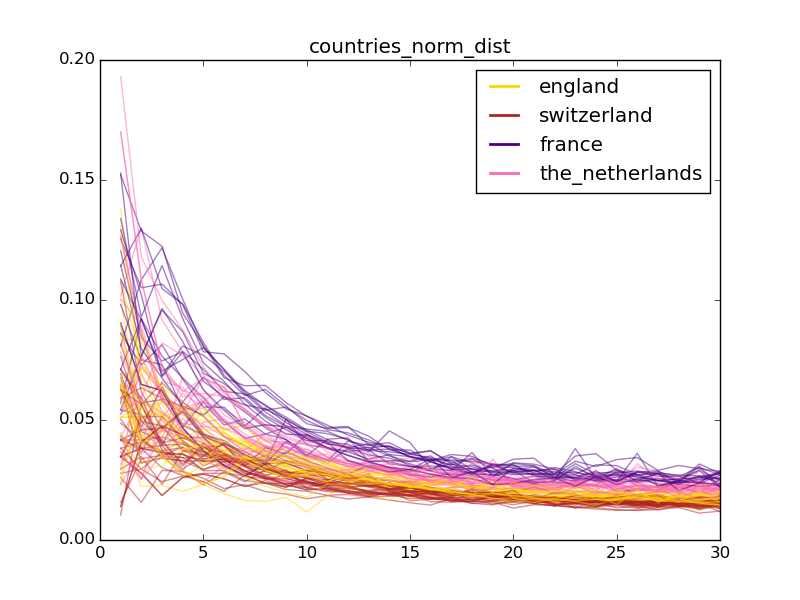
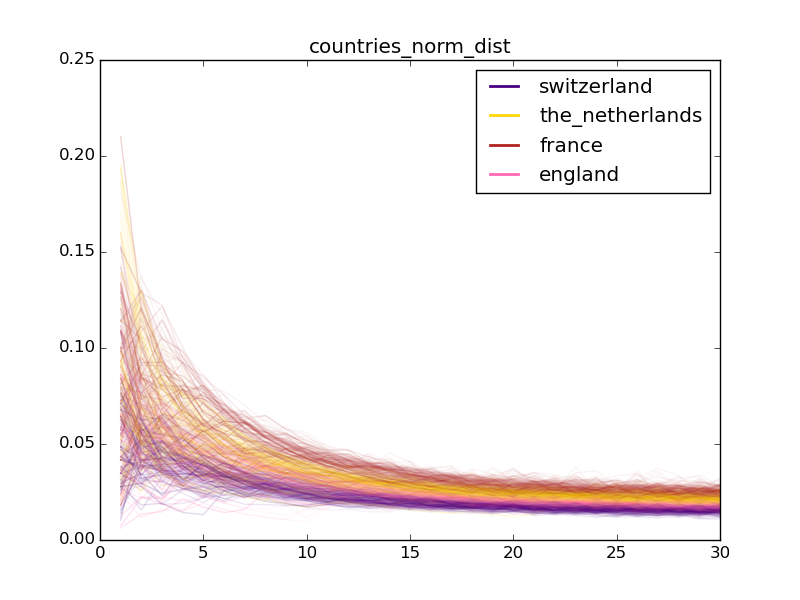
Changed some parameters to prettify plots

diff --git a/statistics.py b/statistics.py
@@ -66,13 +66,14 @@ def plot(dict_name, dataset, average=False):
     plt.title(dict_name)
     ax1 = fig.add_subplot(111)
     cs = colors.cnames.keys()
-    cdict = {"france": cs[0], "england": cs[1], "the_netherlands": cs[2], "switzerland": cs[3]}
+
+    cdict = {key: cs[i] for i, key in enumerate(dataset.keys())}
 
     # To avoid one series totally overwriting another
     data_array = [(key, dataset[key][i]) for key in dataset.keys() for i in range(len(dataset[key]))]
     shuffle(data_array)
 
-    for key, item in data_array[:100]:
+    for key, item in data_array:
 
         avg = np.average(np.array(item), axis=0)
 
@@ -83,7 +84,7 @@ def plot(dict_name, dataset, average=False):
         if random() < 0.00:
             ax1.plot(x, item, color=c, alpha=0.6, lw=1, label=key)
         else:
-            ax1.plot(x, item, color=c, alpha=0.5, label=key)
+            ax1.plot(x, item, color=c, alpha=0.05, label=key)
         # ax1.scatter(x, item, color=c, s=2, alpha=0.3)
 
     # Remove dulplicate labels
@@ -94,6 +95,7 @@ def plot(dict_name, dataset, average=False):
             newLabels.append(label)
             newHandles.append(handle)
     
+    # Prettify legend
     leg = plt.legend(newHandles, newLabels)
     for legobj in leg.legendHandles:
         legobj.set_linewidth(2.0)
@@ -102,10 +104,10 @@ def plot(dict_name, dataset, average=False):
     plt.savefig("output/%s.png" % dict_name)
     # plt.show()
 
-# plot("number_of_vehicles", number_of_vehicles)
+plot("number_of_vehicles", number_of_vehicles)
 plot("countries_prob_dist", countries_prob_dist)
 plot("countries_norm_dist", countries_norm_dist)
-# plot("countries", countries)
+plot("countries", countries)
 
 # print f
     # for f in filenames:
